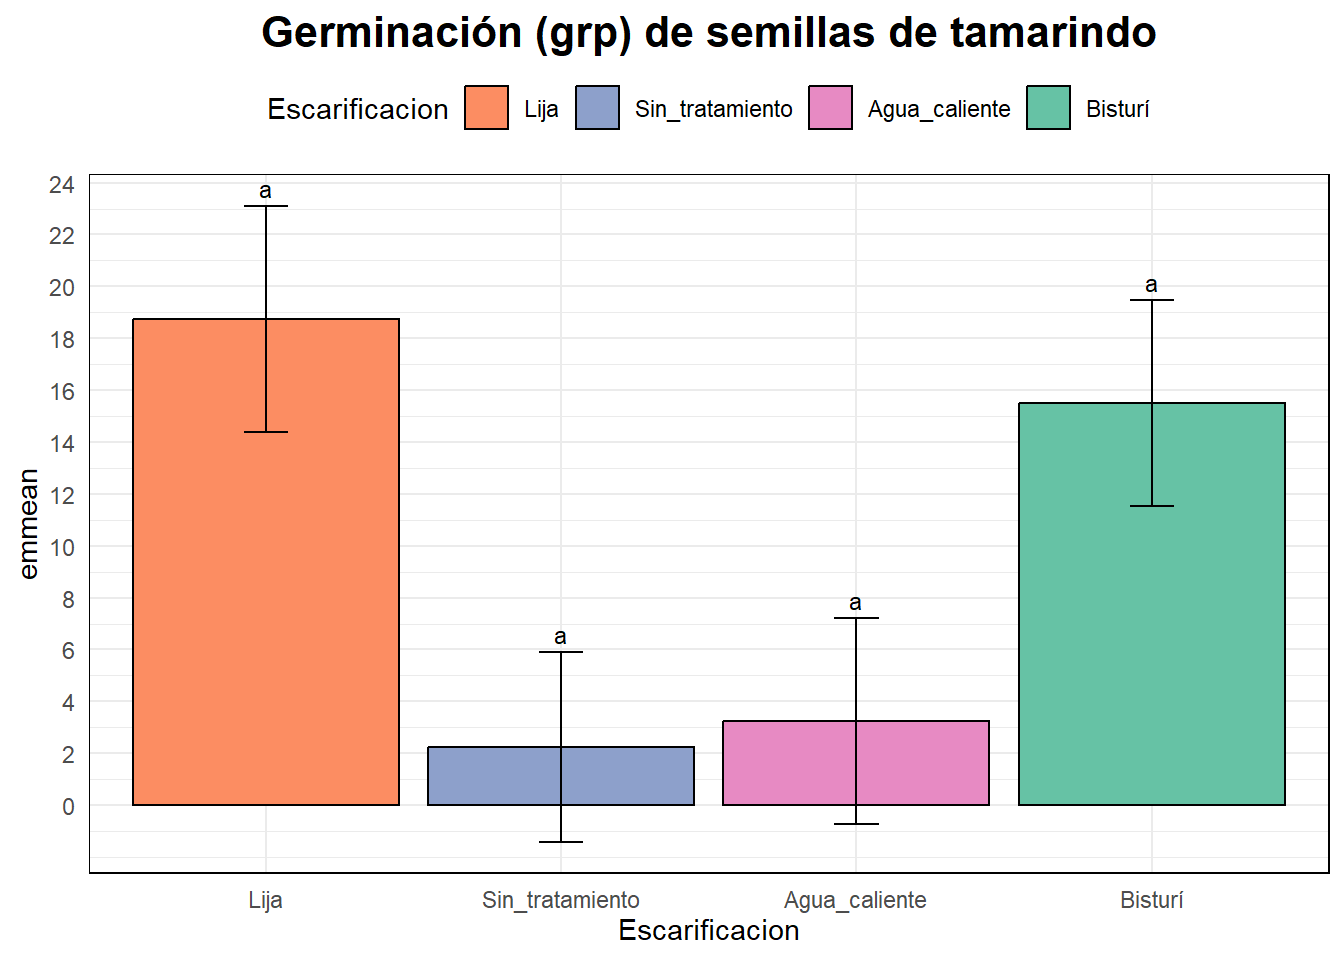
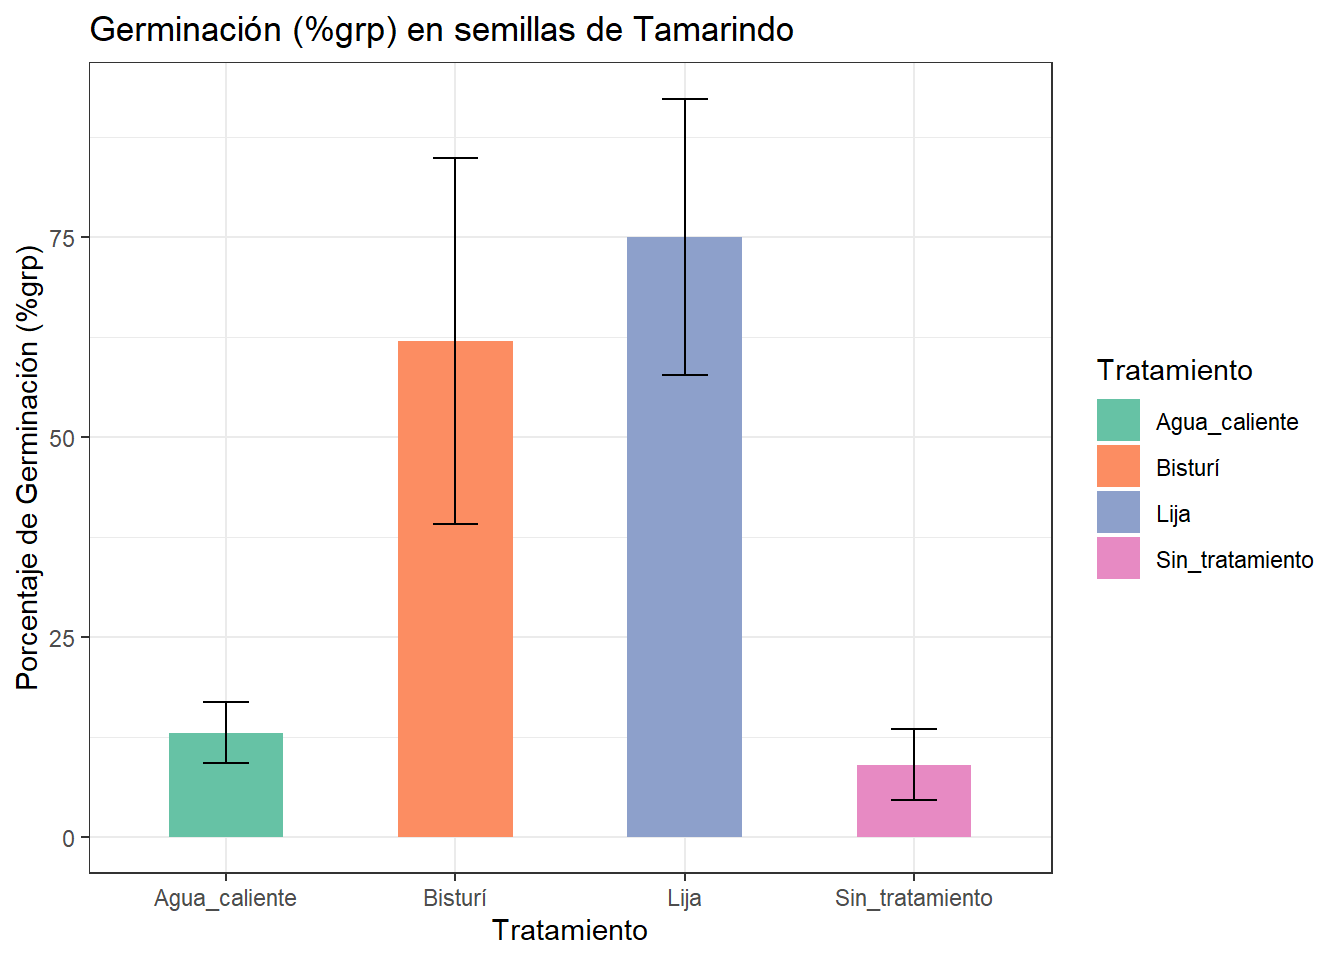
tamarindo

diff --git a/docs/analisis.html b/docs/analisis.html
@@ -378,7 +378,7 @@ window.Quarto = {
   </ul></li>
   <li><a href="#comparación-de-medias" id="toc-comparación-de-medias" class="nav-link" data-scroll-target="#comparación-de-medias">Comparación de medias</a></li>
   <li><a href="#letras-de-significancia" id="toc-letras-de-significancia" class="nav-link" data-scroll-target="#letras-de-significancia">Letras de significancia</a></li>
-  <li><a href="#representación-grafica" id="toc-representación-grafica" class="nav-link" data-scroll-target="#representación-grafica">Representación grafica</a>
+  <li><a href="#gráfico-de-barras-de-porcentaje-de-germinación" id="toc-gráfico-de-barras-de-porcentaje-de-germinación" class="nav-link" data-scroll-target="#gráfico-de-barras-de-porcentaje-de-germinación">Gráfico de barras de porcentaje de germinación</a>
   <ul class="collapse">
   <li><a href="#tiempo-medio-de-germinación" id="toc-tiempo-medio-de-germinación" class="nav-link" data-scroll-target="#tiempo-medio-de-germinación">Tiempo medio de germinación</a></li>
   <li><a href="#índice-de-sincronización" id="toc-índice-de-sincronización" class="nav-link" data-scroll-target="#índice-de-sincronización">Índice de sincronización</a></li>
@@ -434,7 +434,7 @@ CPU cores in use:  9 </code></pre>
 <div class="cell-output cell-output-stderr">
 <pre><code>Warning in system2("quarto", "-V", stdout = TRUE, env = paste0("TMPDIR=", : el
 comando ejecutado '"quarto"
-TMPDIR=C:/Users/DELL/AppData/Local/Temp/RtmpM38k1o/file43e85e7464d5 -V' tiene
+TMPDIR=C:/Users/DELL/AppData/Local/Temp/RtmpKmjs6v/file73e020383916 -V' tiene
 el estatus 1</code></pre>
 </div>
 <div class="cell-output cell-output-stdout">
@@ -448,7 +448,7 @@ el estatus 1</code></pre>
  collate  Spanish_Peru.utf8
  ctype    Spanish_Peru.utf8
  tz       America/Lima
- date     2026-05-26
+ date     2026-05-27
  pandoc   3.8.3 @ C:/Program Files/RStudio/resources/app/bin/quarto/bin/tools/ (via rmarkdown)
  quarto   NA @ C:\\PROGRA~1\\RStudio\\resources\\app\\bin\\quarto\\bin\\quarto.exe
 
@@ -1016,40 +1016,29 @@ el estatus 1</code></pre>
 <span id="cb13-23"><a href="#cb13-23" aria-hidden="true" tabindex="-1"></a><span class="do">##       But we also did not show them to be the same.</span></span></code></pre></div><button title="Copy to Clipboard" class="code-copy-button"><i class="bi"></i></button></div>
 </div>
 </section>
-<section id="representación-grafica" class="level1">
-<h1>Representación grafica</h1>
+<section id="gráfico-de-barras-de-porcentaje-de-germinación" class="level1">
+<h1>Gráfico de barras de porcentaje de germinación</h1>
 <div class="cell" data-layout-align="center">
 <div class="code-copy-outer-scaffold"><div class="sourceCode cell-code" id="cb14"><pre class="sourceCode r code-with-copy"><code class="sourceCode r"><span id="cb14-1"><a href="#cb14-1" aria-hidden="true" tabindex="-1"></a><span class="fu">library</span>(dplyr)</span>
-<span id="cb14-2"><a href="#cb14-2" aria-hidden="true" tabindex="-1"></a></span>
-<span id="cb14-3"><a href="#cb14-3" aria-hidden="true" tabindex="-1"></a>letras_df <span class="ot">&lt;-</span> letras <span class="sc">%&gt;%</span></span>
-<span id="cb14-4"><a href="#cb14-4" aria-hidden="true" tabindex="-1"></a>  <span class="fu">as.data.frame</span>() <span class="sc">%&gt;%</span></span>
-<span id="cb14-5"><a href="#cb14-5" aria-hidden="true" tabindex="-1"></a>  <span class="fu">mutate</span>(</span>
-<span id="cb14-6"><a href="#cb14-6" aria-hidden="true" tabindex="-1"></a>    <span class="at">Escarificacion =</span> <span class="fu">factor</span>(</span>
-<span id="cb14-7"><a href="#cb14-7" aria-hidden="true" tabindex="-1"></a>      Escarificacion,</span>
-<span id="cb14-8"><a href="#cb14-8" aria-hidden="true" tabindex="-1"></a>      <span class="at">levels =</span> <span class="fu">unique</span>(gsm<span class="sc">$</span>Escarificacion)</span>
-<span id="cb14-9"><a href="#cb14-9" aria-hidden="true" tabindex="-1"></a>    ),</span>
-<span id="cb14-10"><a href="#cb14-10" aria-hidden="true" tabindex="-1"></a>    <span class="at">.group =</span> <span class="fu">trimws</span>(.group)</span>
-<span id="cb14-11"><a href="#cb14-11" aria-hidden="true" tabindex="-1"></a>  )</span>
-<span id="cb14-12"><a href="#cb14-12" aria-hidden="true" tabindex="-1"></a><span class="fu">plot_smr</span>(</span>
-<span id="cb14-13"><a href="#cb14-13" aria-hidden="true" tabindex="-1"></a>  letras_df,</span>
-<span id="cb14-14"><a href="#cb14-14" aria-hidden="true" tabindex="-1"></a>  <span class="at">x =</span> <span class="st">"Escarificacion"</span>,</span>
-<span id="cb14-15"><a href="#cb14-15" aria-hidden="true" tabindex="-1"></a>  <span class="at">y =</span> <span class="st">"emmean"</span>,</span>
-<span id="cb14-16"><a href="#cb14-16" aria-hidden="true" tabindex="-1"></a>  <span class="at">error =</span> <span class="st">"SE"</span>,</span>
-<span id="cb14-17"><a href="#cb14-17" aria-hidden="true" tabindex="-1"></a>  <span class="at">sig =</span> <span class="st">".group"</span></span>
-<span id="cb14-18"><a href="#cb14-18" aria-hidden="true" tabindex="-1"></a>) <span class="sc">+</span></span>
-<span id="cb14-19"><a href="#cb14-19" aria-hidden="true" tabindex="-1"></a>  <span class="fu">ggtitle</span>(<span class="st">"Germinación (grp) de semillas de tamarindo"</span>) <span class="sc">+</span></span>
-<span id="cb14-20"><a href="#cb14-20" aria-hidden="true" tabindex="-1"></a>  </span>
-<span id="cb14-21"><a href="#cb14-21" aria-hidden="true" tabindex="-1"></a>  <span class="fu">theme</span>(</span>
-<span id="cb14-22"><a href="#cb14-22" aria-hidden="true" tabindex="-1"></a>    <span class="at">plot.title =</span> <span class="fu">element_text</span>(</span>
-<span id="cb14-23"><a href="#cb14-23" aria-hidden="true" tabindex="-1"></a>      <span class="at">hjust =</span> <span class="fl">0.5</span>,   <span class="co"># centra el título</span></span>
-<span id="cb14-24"><a href="#cb14-24" aria-hidden="true" tabindex="-1"></a>      <span class="at">face =</span> <span class="st">"bold"</span>,</span>
-<span id="cb14-25"><a href="#cb14-25" aria-hidden="true" tabindex="-1"></a>      <span class="at">size =</span> <span class="dv">16</span></span>
-<span id="cb14-26"><a href="#cb14-26" aria-hidden="true" tabindex="-1"></a>    )</span>
-<span id="cb14-27"><a href="#cb14-27" aria-hidden="true" tabindex="-1"></a>  ) <span class="sc">+</span></span>
-<span id="cb14-28"><a href="#cb14-28" aria-hidden="true" tabindex="-1"></a>  </span>
-<span id="cb14-29"><a href="#cb14-29" aria-hidden="true" tabindex="-1"></a>  <span class="fu">scale_y_continuous</span>(</span>
-<span id="cb14-30"><a href="#cb14-30" aria-hidden="true" tabindex="-1"></a>    <span class="at">breaks =</span> <span class="fu">seq</span>(<span class="dv">0</span>, <span class="dv">100</span>, <span class="at">by =</span> <span class="dv">2</span>)</span>
-<span id="cb14-31"><a href="#cb14-31" aria-hidden="true" tabindex="-1"></a>  )</span></code></pre></div><button title="Copy to Clipboard" class="code-copy-button"><i class="bi"></i></button></div>
+<span id="cb14-2"><a href="#cb14-2" aria-hidden="true" tabindex="-1"></a><span class="fu">library</span>(ggplot2)</span>
+<span id="cb14-3"><a href="#cb14-3" aria-hidden="true" tabindex="-1"></a></span>
+<span id="cb14-4"><a href="#cb14-4" aria-hidden="true" tabindex="-1"></a>gsm <span class="sc">%&gt;%</span></span>
+<span id="cb14-5"><a href="#cb14-5" aria-hidden="true" tabindex="-1"></a>  <span class="fu">group_by</span>(Escarificacion) <span class="sc">%&gt;%</span></span>
+<span id="cb14-6"><a href="#cb14-6" aria-hidden="true" tabindex="-1"></a>  <span class="fu">summarise</span>(</span>
+<span id="cb14-7"><a href="#cb14-7" aria-hidden="true" tabindex="-1"></a>    <span class="at">mean_grp =</span> <span class="fu">mean</span>(grp, <span class="at">na.rm =</span> <span class="cn">TRUE</span>),</span>
+<span id="cb14-8"><a href="#cb14-8" aria-hidden="true" tabindex="-1"></a>    <span class="at">sd_grp =</span> <span class="fu">sd</span>(grp, <span class="at">na.rm =</span> <span class="cn">TRUE</span>),</span>
+<span id="cb14-9"><a href="#cb14-9" aria-hidden="true" tabindex="-1"></a>    <span class="at">n =</span> <span class="fu">n</span>()</span>
+<span id="cb14-10"><a href="#cb14-10" aria-hidden="true" tabindex="-1"></a>  ) <span class="sc">%&gt;%</span></span>
+<span id="cb14-11"><a href="#cb14-11" aria-hidden="true" tabindex="-1"></a>  <span class="fu">mutate</span>(<span class="at">se_grp =</span> sd_grp <span class="sc">/</span> <span class="fu">sqrt</span>(n)) <span class="sc">%&gt;%</span></span>
+<span id="cb14-12"><a href="#cb14-12" aria-hidden="true" tabindex="-1"></a>  <span class="fu">ggplot</span>(<span class="fu">aes</span>(<span class="at">x =</span> Escarificacion, <span class="at">y =</span> mean_grp, <span class="at">fill =</span> Escarificacion)) <span class="sc">+</span></span>
+<span id="cb14-13"><a href="#cb14-13" aria-hidden="true" tabindex="-1"></a>  <span class="fu">geom_col</span>(<span class="at">position =</span> <span class="st">"dodge"</span>, <span class="at">width =</span> <span class="fl">0.5</span>) <span class="sc">+</span></span>
+<span id="cb14-14"><a href="#cb14-14" aria-hidden="true" tabindex="-1"></a>  <span class="fu">geom_errorbar</span>(<span class="fu">aes</span>(<span class="at">ymin =</span> mean_grp <span class="sc">-</span> se_grp, <span class="at">ymax =</span> mean_grp <span class="sc">+</span> se_grp), <span class="at">width =</span> <span class="fl">0.2</span>, <span class="at">color =</span> <span class="st">"black"</span>) <span class="sc">+</span></span>
+<span id="cb14-15"><a href="#cb14-15" aria-hidden="true" tabindex="-1"></a>  <span class="fu">scale_fill_brewer</span>(<span class="at">palette =</span> <span class="st">"Set2"</span>) <span class="sc">+</span></span>
+<span id="cb14-16"><a href="#cb14-16" aria-hidden="true" tabindex="-1"></a>  <span class="fu">labs</span>(<span class="at">title =</span> (<span class="st">"Germinación (%grp) en semillas de Tamarindo"</span>),</span>
+<span id="cb14-17"><a href="#cb14-17" aria-hidden="true" tabindex="-1"></a>       <span class="at">y =</span> <span class="st">"Porcentaje de Germinación (%grp)"</span>,</span>
+<span id="cb14-18"><a href="#cb14-18" aria-hidden="true" tabindex="-1"></a>       <span class="at">x =</span> <span class="st">"Tratamiento"</span>,</span>
+<span id="cb14-19"><a href="#cb14-19" aria-hidden="true" tabindex="-1"></a>       <span class="at">fill =</span> <span class="st">"Tratamiento"</span>) <span class="sc">+</span></span>
+<span id="cb14-20"><a href="#cb14-20" aria-hidden="true" tabindex="-1"></a>  <span class="fu">theme_bw</span>()</span></code></pre></div><button title="Copy to Clipboard" class="code-copy-button"><i class="bi"></i></button></div>
 <div class="cell-output-display">
 <div class="quarto-figure quarto-figure-center">
 <figure class="figure">
@@ -1121,6 +1110,7 @@ el estatus 1</code></pre>
 </div>
 </div>
 </div>
+<p>```</p>
 
 
 </section>

diff --git a/docs/resultados.html b/docs/resultados.html
@@ -23,41 +23,6 @@ ul.task-list li input[type="checkbox"] {
   margin: 0 0.8em 0.2em -1em; /* quarto-specific, see https://github.com/quarto-dev/quarto-cli/issues/4556 */ 
   vertical-align: middle;
 }
-/* CSS for syntax highlighting */
-html { -webkit-text-size-adjust: 100%; }
-pre > code.sourceCode { white-space: pre; position: relative; }
-pre > code.sourceCode > span { display: inline-block; line-height: 1.25; }
-pre > code.sourceCode > span:empty { height: 1.2em; }
-.sourceCode { overflow: visible; }
-code.sourceCode > span { color: inherit; text-decoration: inherit; }
-div.sourceCode { margin: 1em 0; }
-pre.sourceCode { margin: 0; }
-@media screen {
-div.sourceCode { overflow: auto; }
-}
-@media print {
-pre > code.sourceCode { white-space: pre-wrap; }
-pre > code.sourceCode > span { text-indent: -5em; padding-left: 5em; }
-}
-pre.numberSource code
-  { counter-reset: source-line 0; }
-pre.numberSource code > span
-  { position: relative; left: -4em; counter-increment: source-line; }
-pre.numberSource code > span > a:first-child::before
-  { content: counter(source-line);
-    position: relative; left: -1em; text-align: right; vertical-align: baseline;
-    border: none; display: inline-block;
-    -webkit-touch-callout: none; -webkit-user-select: none;
-    -khtml-user-select: none; -moz-user-select: none;
-    -ms-user-select: none; user-select: none;
-    padding: 0 4px; width: 4em;
-  }
-pre.numberSource { margin-left: 3em;  padding-left: 4px; }
-div.sourceCode
-  {   }
-@media screen {
-pre > code.sourceCode > span > a:first-child::before { text-decoration: underline; }
-}
 </style>
 
 
@@ -340,8 +305,13 @@ pre > code.sourceCode > span > a:first-child::before { text-decoration: underlin
     <h2 id="toc-title">On this page</h2>
    
   <ul>
-  <li><a href="#quarto" id="toc-quarto" class="nav-link active" data-scroll-target="#quarto">Quarto</a></li>
-  <li><a href="#running-code" id="toc-running-code" class="nav-link" data-scroll-target="#running-code">Running Code</a></li>
+  <li><a href="#resultados" id="toc-resultados" class="nav-link active" data-scroll-target="#resultados">Resultados</a>
+  <ul class="collapse">
+  <li><a href="#porcentaje-de-germinación-grp" id="toc-porcentaje-de-germinación-grp" class="nav-link" data-scroll-target="#porcentaje-de-germinación-grp">Porcentaje de germinación (GRP)</a></li>
+  <li><a href="#tiempo-medio-de-germinación-mgt" id="toc-tiempo-medio-de-germinación-mgt" class="nav-link" data-scroll-target="#tiempo-medio-de-germinación-mgt">Tiempo medio de germinación (mgt)</a></li>
+  <li><a href="#índice-de-sincronización-syn" id="toc-índice-de-sincronización-syn" class="nav-link" data-scroll-target="#índice-de-sincronización-syn">Índice de sincronización (syn)</a></li>
+  <li><a href="#interacción-entre-los-tratamientos" id="toc-interacción-entre-los-tratamientos" class="nav-link" data-scroll-target="#interacción-entre-los-tratamientos">Interacción entre los tratamientos</a></li>
+  </ul></li>
   </ul>
 </nav>
     </div>
@@ -368,28 +338,26 @@ pre > code.sourceCode > span > a:first-child::before { text-decoration: underlin
 </header>
 
 
-<section id="quarto" class="level2">
-<h2 class="anchored" data-anchor-id="quarto">Quarto</h2>
-<p>Quarto enables you to weave together content and executable code into a finished document. To learn more about Quarto see <a href="https://quarto.org" class="uri">https://quarto.org</a>.</p>
+<section id="resultados" class="level2">
+<h2 class="anchored" data-anchor-id="resultados">Resultados</h2>
+<p>Mediante el presente experimento se evaluó el efecto de diferentes métodos de escarificación sobre la germinación de semillas de (Tamarindus indica) con dormancia física, con el objetivo de analizar su comportamiento germinativo a partir de tres índices clave: el porcentaje de germinación (GRP), el tiempo medio de germinación (MGT) y el índice de sincronización (SYN). Los datos fueron sometidos a un análisis de varianza (ANOVA) y a pruebas de comparación de medias, considerando un nivel de significancia de α = 0.05. A continuación, se presentan los resultados obtenidos.</p>
+<section id="porcentaje-de-germinación-grp" class="level3">
+<h3 class="anchored" data-anchor-id="porcentaje-de-germinación-grp">Porcentaje de germinación (GRP)</h3>
+<p>Objetivo 1. Evaluar el efecto de los tres métodos de escarificación sobre el porcentaje de germinación de semillas de tamarindo (Tamarindus indica) con dormancia física.</p>
 </section>
-<section id="running-code" class="level2">
-<h2 class="anchored" data-anchor-id="running-code">Running Code</h2>
-<p>When you click the <strong>Render</strong> button a document will be generated that includes both content and the output of embedded code. You can embed code like this:</p>
-<div class="cell">
-<div class="code-copy-outer-scaffold"><div class="sourceCode cell-code" id="cb1"><pre class="sourceCode r code-with-copy"><code class="sourceCode r"><span id="cb1-1"><a href="#cb1-1" aria-hidden="true" tabindex="-1"></a><span class="dv">1</span> <span class="sc">+</span> <span class="dv">1</span></span></code></pre></div><button title="Copy to Clipboard" class="code-copy-button"><i class="bi"></i></button></div>
-<div class="cell-output cell-output-stdout">
-<pre><code>[1] 2</code></pre>
-</div>
-</div>
-<p>You can add options to executable code like this</p>
-<div class="cell">
-<div class="cell-output cell-output-stdout">
-<pre><code>[1] 4</code></pre>
-</div>
-</div>
-<p>The <code>echo: false</code> option disables the printing of code (only output is displayed).</p>
+<section id="tiempo-medio-de-germinación-mgt" class="level3">
+<h3 class="anchored" data-anchor-id="tiempo-medio-de-germinación-mgt">Tiempo medio de germinación (mgt)</h3>
+<p>Objetivo 2. Determinar el tiempo medio de germinación y el método más eficiente para romper la dormancia en tamarindo (Tamarindus indica).</p>
+</section>
+<section id="índice-de-sincronización-syn" class="level3">
+<h3 class="anchored" data-anchor-id="índice-de-sincronización-syn">Índice de sincronización (syn)</h3>
+<p>Objetivo 3. Evaluar el efecto de métodos de escarificación sobre el porcentaje, velocidad e índice de sincronización de la germinación en semillas de Tamarindus indica.</p>
+</section>
+<section id="interacción-entre-los-tratamientos" class="level3">
+<h3 class="anchored" data-anchor-id="interacción-entre-los-tratamientos">Interacción entre los tratamientos</h3>
 
 
+</section>
 </section>
 
 </main> <!-- /main -->
